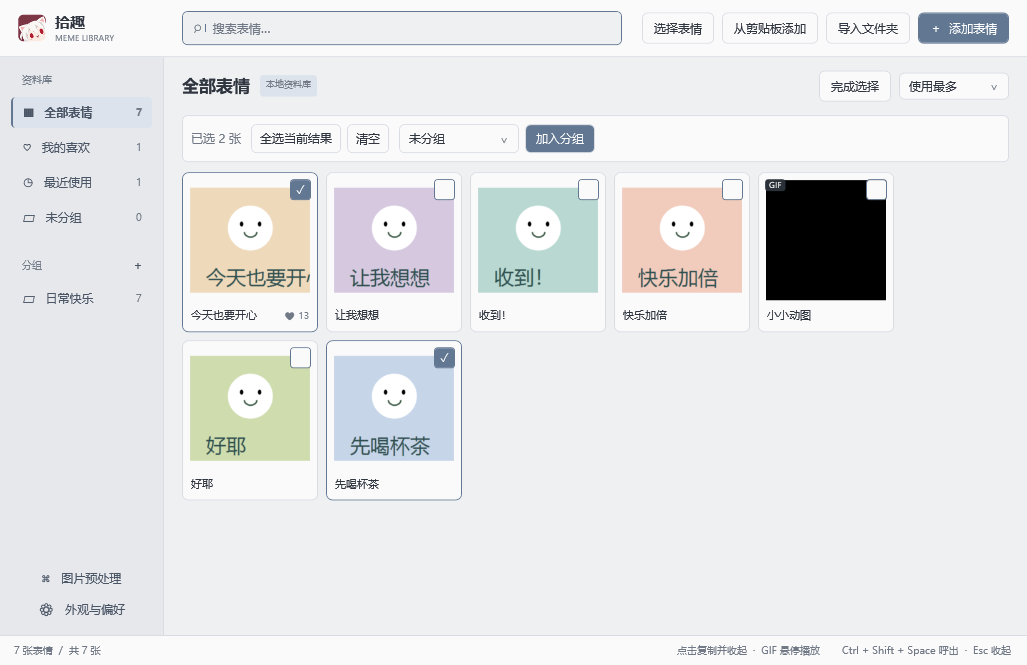
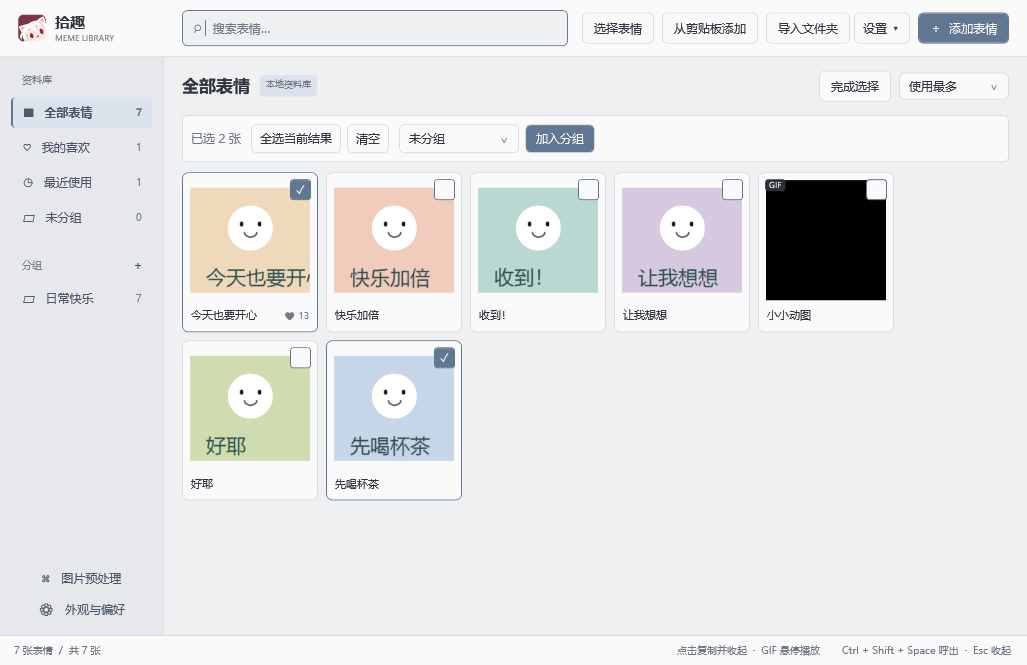
fix: search text clipping and expose folder import settings

Changed region(s): [[0.592, 0.2707, 0.7478, 0.4812], [0.3116, 0.2707, 0.4674, 0.4812], [0.5609, 0.0301, 0.8724, 0.0602]]

diff --git a/MainWindow.xaml b/MainWindow.xaml
@@ -3,7 +3,7 @@
   <SolidColorBrush x:Key="Canvas" Color="#EFF0F2"/><SolidColorBrush x:Key="Surface" Color="#FAFAFB"/><SolidColorBrush x:Key="Ink" Color="#303640"/><SolidColorBrush x:Key="Muted" Color="#707985"/><SolidColorBrush x:Key="Line" Color="#D9DDE3"/><SolidColorBrush x:Key="Accent" Color="#627792"/><SolidColorBrush x:Key="Tint" Color="#DCE3EC"/><SolidColorBrush x:Key="Side" Color="#E6E8EC"/><SolidColorBrush x:Key="SideInk" Color="#4A5565"/><SolidColorBrush x:Key="SideMuted" Color="#737D8A"/>
   <Style TargetType="TextBlock"><Setter Property="Foreground" Value="{DynamicResource Ink}"/></Style>
   <Style TargetType="Button"><Setter Property="Foreground" Value="{DynamicResource Ink}"/><Setter Property="Background" Value="{DynamicResource Surface}"/><Setter Property="BorderBrush" Value="{DynamicResource Line}"/><Setter Property="BorderThickness" Value="1"/><Setter Property="Padding" Value="11,7"/><Setter Property="Cursor" Value="Hand"/><Setter Property="Template"><Setter.Value><ControlTemplate TargetType="Button"><Border x:Name="B" CornerRadius="5" Background="{TemplateBinding Background}" BorderBrush="{TemplateBinding BorderBrush}" BorderThickness="{TemplateBinding BorderThickness}" Padding="{TemplateBinding Padding}"><ContentPresenter HorizontalAlignment="Center" VerticalAlignment="Center"/></Border><ControlTemplate.Triggers><Trigger Property="IsMouseOver" Value="True"><Setter TargetName="B" Property="Opacity" Value="0.78"/></Trigger><Trigger Property="IsKeyboardFocused" Value="True"><Setter TargetName="B" Property="BorderBrush" Value="{DynamicResource Accent}"/></Trigger><Trigger Property="IsEnabled" Value="False"><Setter TargetName="B" Property="Opacity" Value="0.4"/></Trigger></ControlTemplate.Triggers></ControlTemplate></Setter.Value></Setter></Style>
-  <Style TargetType="TextBox"><Setter Property="Background" Value="{DynamicResource Canvas}"/><Setter Property="Foreground" Value="{DynamicResource Ink}"/><Setter Property="CaretBrush" Value="{DynamicResource Accent}"/><Setter Property="BorderBrush" Value="{DynamicResource Line}"/><Setter Property="BorderThickness" Value="1"/><Setter Property="Padding" Value="10,6"/><Setter Property="VerticalContentAlignment" Value="Center"/><Setter Property="Template"><Setter.Value><ControlTemplate TargetType="TextBox"><Border x:Name="B" Background="{TemplateBinding Background}" BorderBrush="{TemplateBinding BorderBrush}" BorderThickness="{TemplateBinding BorderThickness}" CornerRadius="5"><ScrollViewer x:Name="PART_ContentHost" Margin="{TemplateBinding Padding}"/></Border><ControlTemplate.Triggers><Trigger Property="IsKeyboardFocusWithin" Value="True"><Setter TargetName="B" Property="BorderBrush" Value="{DynamicResource Accent}"/></Trigger></ControlTemplate.Triggers></ControlTemplate></Setter.Value></Setter></Style>
+  <Style TargetType="TextBox"><Setter Property="Background" Value="{DynamicResource Canvas}"/><Setter Property="Foreground" Value="{DynamicResource Ink}"/><Setter Property="CaretBrush" Value="{DynamicResource Accent}"/><Setter Property="BorderBrush" Value="{DynamicResource Line}"/><Setter Property="BorderThickness" Value="1"/><Setter Property="Padding" Value="10,4"/><Setter Property="MinHeight" Value="36"/><Setter Property="VerticalContentAlignment" Value="Center"/><Setter Property="Template"><Setter.Value><ControlTemplate TargetType="TextBox"><Border x:Name="B" Background="{TemplateBinding Background}" BorderBrush="{TemplateBinding BorderBrush}" BorderThickness="{TemplateBinding BorderThickness}" CornerRadius="5" Padding="{TemplateBinding Padding}"><ScrollViewer x:Name="PART_ContentHost" Focusable="False" HorizontalScrollBarVisibility="Hidden" VerticalScrollBarVisibility="Hidden"/></Border><ControlTemplate.Triggers><Trigger Property="IsKeyboardFocusWithin" Value="True"><Setter TargetName="B" Property="BorderBrush" Value="{DynamicResource Accent}"/></Trigger></ControlTemplate.Triggers></ControlTemplate></Setter.Value></Setter></Style>
   <Style TargetType="ComboBox"><Setter Property="Foreground" Value="{DynamicResource Ink}"/><Setter Property="Background" Value="{DynamicResource Surface}"/><Setter Property="Padding" Value="10,6"/><Setter Property="MinWidth" Value="110"/><Setter Property="Template"><Setter.Value><ControlTemplate TargetType="ComboBox"><Grid><ToggleButton Focusable="False" IsChecked="{Binding IsDropDownOpen, RelativeSource={RelativeSource TemplatedParent}, Mode=TwoWay}" ClickMode="Press"><ToggleButton.Template><ControlTemplate TargetType="ToggleButton"><Border Background="{DynamicResource Surface}" BorderBrush="{DynamicResource Line}" BorderThickness="1" CornerRadius="5"><TextBlock Text="⌄" Foreground="{DynamicResource Muted}" HorizontalAlignment="Right" VerticalAlignment="Center" Margin="0,0,10,3"/></Border></ControlTemplate></ToggleButton.Template></ToggleButton><ContentPresenter IsHitTestVisible="False" Content="{TemplateBinding SelectionBoxItem}" ContentTemplate="{TemplateBinding SelectionBoxItemTemplate}" Margin="10,6,27,6" VerticalAlignment="Center"/><Popup x:Name="PART_Popup" IsOpen="{TemplateBinding IsDropDownOpen}" Placement="Bottom" AllowsTransparency="True" Focusable="False" PopupAnimation="Fade"><Border Background="{DynamicResource Surface}" BorderBrush="{DynamicResource Line}" BorderThickness="1" CornerRadius="5" MinWidth="{Binding ActualWidth, RelativeSource={RelativeSource TemplatedParent}}" Padding="3"><ScrollViewer MaxHeight="280"><ItemsPresenter KeyboardNavigation.DirectionalNavigation="Contained"/></ScrollViewer></Border></Popup></Grid></ControlTemplate></Setter.Value></Setter></Style>
   <Style TargetType="ComboBoxItem"><Setter Property="Foreground" Value="{DynamicResource Ink}"/><Setter Property="Padding" Value="8,6"/><Setter Property="Template"><Setter.Value><ControlTemplate TargetType="ComboBoxItem"><Border x:Name="B" Background="Transparent" Padding="{TemplateBinding Padding}" CornerRadius="3"><ContentPresenter/></Border><ControlTemplate.Triggers><Trigger Property="IsHighlighted" Value="True"><Setter TargetName="B" Property="Background" Value="{DynamicResource Tint}"/></Trigger><Trigger Property="IsSelected" Value="True"><Setter TargetName="B" Property="Background" Value="{DynamicResource Tint}"/></Trigger></ControlTemplate.Triggers></ControlTemplate></Setter.Value></Setter></Style>
   <Style x:Key="Nav" TargetType="ListBoxItem"><Setter Property="Foreground" Value="{DynamicResource SideInk}"/><Setter Property="Padding" Value="10,8"/><Setter Property="Margin" Value="0,2"/><Setter Property="HorizontalContentAlignment" Value="Stretch"/><Setter Property="Template"><Setter.Value><ControlTemplate TargetType="ListBoxItem"><Border x:Name="B" Background="Transparent" CornerRadius="4" Padding="{TemplateBinding Padding}" BorderThickness="2,0,0,0" BorderBrush="Transparent"><ContentPresenter/></Border><ControlTemplate.Triggers><Trigger Property="IsMouseOver" Value="True"><Setter TargetName="B" Property="Background" Value="{DynamicResource Tint}"/></Trigger><Trigger Property="IsSelected" Value="True"><Setter TargetName="B" Property="Background" Value="{DynamicResource Tint}"/><Setter TargetName="B" Property="BorderBrush" Value="{DynamicResource Accent}"/><Setter Property="FontWeight" Value="SemiBold"/></Trigger></ControlTemplate.Triggers></ControlTemplate></Setter.Value></Setter></Style>
@@ -12,8 +12,8 @@
   <Grid.RowDefinitions><RowDefinition Height="57"/><RowDefinition Height="*"/><RowDefinition Height="30"/></Grid.RowDefinitions>
   <Border Background="{DynamicResource Surface}" BorderBrush="{DynamicResource Line}" BorderThickness="0,0,0,1"><Grid Margin="18,0,18,0"><Grid.ColumnDefinitions><ColumnDefinition Width="164"/><ColumnDefinition Width="*"/><ColumnDefinition Width="Auto"/></Grid.ColumnDefinitions>
    <StackPanel Orientation="Horizontal" VerticalAlignment="Center"><Image x:Name="BrandIcon" Width="28" Height="28" Margin="0,0,9,0"/><StackPanel><TextBlock Text="拾趣" FontSize="15" FontWeight="SemiBold"/><TextBlock Text="MEME LIBRARY" Foreground="{DynamicResource Muted}" FontSize="8" Margin="0,1,0,0"/></StackPanel></StackPanel>
-   <Grid Grid.Column="1" Margin="0,11,20,11"><TextBox x:Name="Search" ToolTip="搜索表情名称"/><TextBlock x:Name="SearchHint" Text="⌕   搜索表情…" Foreground="{DynamicResource Muted}" IsHitTestVisible="False" VerticalAlignment="Center" Margin="11,0,0,0"/></Grid>
-   <StackPanel Grid.Column="2" Orientation="Horizontal" VerticalAlignment="Center"><Button x:Name="OpenPicker" Content="选择表情" Margin="0,0,8,0"/><Button x:Name="ImportClipboard" Content="从剪贴板添加" ToolTip="导入剪贴板中的图片或图片文件到当前分组" Margin="0,0,8,0"/><Button x:Name="ImportFolder" Content="导入文件夹" Margin="0,0,8,0"/><Button x:Name="ImportFiles" Content="＋  添加表情" Background="{DynamicResource Accent}" BorderBrush="{DynamicResource Accent}" Foreground="White"/></StackPanel>
+   <Grid Grid.Column="1" Margin="0,6,14,6" VerticalAlignment="Center"><TextBox x:Name="Search" ToolTip="搜索表情名称"/><TextBlock x:Name="SearchHint" Text="⌕   搜索表情…" Foreground="{DynamicResource Muted}" IsHitTestVisible="False" VerticalAlignment="Center" Margin="11,0,0,0"/></Grid>
+   <StackPanel Grid.Column="2" Orientation="Horizontal" VerticalAlignment="Center"><Button x:Name="OpenPicker" Content="选择表情" Margin="0,0,8,0"/><Button x:Name="ImportClipboard" Content="从剪贴板添加" ToolTip="导入剪贴板中的图片或图片文件到当前分组" Margin="0,0,8,0"/><Button x:Name="ImportFolder" Content="导入文件夹" Margin="0,0,4,0"/><Button x:Name="FolderImportSettings" Content="设置 ▾" ToolTip="文件夹导入设置" Padding="8,7" Margin="0,0,8,0"/><Button x:Name="ImportFiles" Content="＋  添加表情" Background="{DynamicResource Accent}" BorderBrush="{DynamicResource Accent}" Foreground="White"/></StackPanel>
   </Grid></Border>
   <Grid Grid.Row="1"><Grid.ColumnDefinitions><ColumnDefinition Width="164"/><ColumnDefinition Width="*"/></Grid.ColumnDefinitions>
    <Border Background="{DynamicResource Side}" BorderBrush="{DynamicResource Line}" BorderThickness="0,0,1,0"><Grid Margin="10,16,10,10"><Grid.RowDefinitions><RowDefinition Height="Auto"/><RowDefinition Height="*"/><RowDefinition Height="Auto"/></Grid.RowDefinitions>

diff --git a/App.cs b/App.cs
@@ -34,7 +34,7 @@ namespace MemeManager {
    groups.SelectionChanged+=(s,e)=>{if(rebuilding||groups.SelectedItem==null)return;filter=(string)((ListBoxItem)groups.SelectedItem).Tag;rebuilding=true;navigation.SelectedIndex=-1;rebuilding=false;Refresh();};
    searchTimer=new DispatcherTimer {Interval=TimeSpan.FromMilliseconds(180)};searchTimer.Tick+=(s,e)=>{searchTimer.Stop();Refresh();};
    search.TextChanged+=(s,e)=>{Find<TextBlock>("SearchHint").Visibility=search.Text.Length==0?Visibility.Visible:Visibility.Collapsed;searchTimer.Stop();searchTimer.Start();};sort.SelectionChanged+=(s,e)=>Refresh();
-   Click("ImportClipboard",(s,e)=>AddFromClipboard());Click("ImportFiles",(s,e)=>ChooseFiles());Click("EmptyImport",(s,e)=>ChooseFiles());Click("ImportFolder",(s,e)=>ChooseFolder());Click("AddGroup",(s,e)=>NewGroup());Click("SettingsButton",(s,e)=>Settings());Click("OpenPicker",(s,e)=>ShowPicker());Click("PreprocessButton",(s,e)=>ShowPreprocessor());Click("BatchToggle",(s,e)=>ToggleBatchMode());Click("BatchSelectAll",(s,e)=>{foreach(var item in visible)batchSelected.Add(item.Id);UpdateBatchUI();RedrawBatchCards();});Click("BatchClear",(s,e)=>{batchSelected.Clear();UpdateBatchUI();RedrawBatchCards();});Click("BatchMove",(s,e)=>{try{var target=Find<ComboBox>("BatchGroup").SelectedItem as PickerGroup;if(target!=null)MoveBatch(target.Id);}catch(Exception ex){Report(ex);}});UpdateBatchUI();
+   Click("ImportClipboard",(s,e)=>AddFromClipboard());Click("ImportFiles",(s,e)=>ChooseFiles());Click("EmptyImport",(s,e)=>ChooseFiles());Click("ImportFolder",(s,e)=>ChooseFolder());Click("AddGroup",(s,e)=>NewGroup());Click("SettingsButton",(s,e)=>Settings());Click("OpenPicker",(s,e)=>ShowPicker());Click("PreprocessButton",(s,e)=>ShowPreprocessor());Click("BatchToggle",(s,e)=>ToggleBatchMode());Click("BatchSelectAll",(s,e)=>{foreach(var item in visible)batchSelected.Add(item.Id);UpdateBatchUI();RedrawBatchCards();});Click("BatchClear",(s,e)=>{batchSelected.Clear();UpdateBatchUI();RedrawBatchCards();});Click("BatchMove",(s,e)=>{try{var target=Find<ComboBox>("BatchGroup").SelectedItem as PickerGroup;if(target!=null)MoveBatch(target.Id);}catch(Exception ex){Report(ex);}});UpdateBatchUI();SetupFolderImportSettings();
    window.Drop+=(s,e)=>{if(e.Data.GetDataPresent(DataFormats.FileDrop))BeginImport((string[])e.Data.GetData(DataFormats.FileDrop));};
    window.PreviewDragOver+=(s,e)=>{e.Effects=e.Data.GetDataPresent(DataFormats.FileDrop)?DragDropEffects.Copy:DragDropEffects.None;e.Handled=true;};
    window.PreviewKeyDown+=(s,e)=>{if(e.Key==Key.Escape){window.Hide();e.Handled=true;}};
@@ -157,18 +157,16 @@ namespace MemeManager {
    }catch(Exception ex){MessageBox.Show(window,ex.Message,"无法从剪贴板添加",MessageBoxButton.OK,MessageBoxImage.Warning);}
    finally{readingClipboard=false;Find<Button>("ImportClipboard").IsEnabled=!importing;}
   }
-  Window CreateFolderImportDialog(string[] paths){
-   var dialog=Dialog("导入文件夹",490,320);NameScope.SetNameScope(dialog,new NameScope());var panel=new StackPanel{Margin=new Thickness(24)};
-   panel.Children.Add(new TextBlock{Text="文件夹导入方式",FontSize=18,FontWeight=FontWeights.SemiBold,Foreground=BrushFor("Ink"),Margin=new Thickness(0,0,0,12)});
-   panel.Children.Add(new TextBlock{Text=paths.Length==1?paths[0]:"已选择 "+paths.Length+" 个文件或文件夹",Foreground=BrushFor("Muted"),TextTrimming=TextTrimming.CharacterEllipsis,Margin=new Thickness(0,0,0,20)});
-   var grouping=new CheckBox{Name="FolderGrouping",Content="按子文件夹名称自动分组",IsChecked=false,Foreground=BrushFor("Ink")};dialog.RegisterName(grouping.Name,grouping);panel.Children.Add(grouping);
-   panel.Children.Add(new TextBlock{Text="开启：使用图片直接所在的子文件夹名称，同名分组会复用。根目录图片仍导入当前分组。\n关闭：所有图片统一导入当前分组。\n重复图片会跳过，空目录不会创建分组。",TextWrapping=TextWrapping.Wrap,Foreground=BrushFor("Muted"),FontSize=11,Margin=new Thickness(0,12,0,0)});
-   var buttons=new StackPanel{Orientation=Orientation.Horizontal,HorizontalAlignment=HorizontalAlignment.Right,Margin=new Thickness(0,22,0,0)};var cancel=new Button{Content="取消",IsCancel=true,Margin=new Thickness(0,0,8,0)};var start=new Button{Content="开始导入",IsDefault=true,Background=BrushFor("Accent"),Foreground=Brushes.White};start.Click+=(s,e)=>dialog.DialogResult=true;buttons.Children.Add(cancel);buttons.Children.Add(start);panel.Children.Add(buttons);dialog.Content=panel;return dialog;
+  void SetupFolderImportSettings(){
+   var button=Find<Button>("FolderImportSettings");var menu=new ContextMenu{Background=BrushFor("Surface"),Foreground=BrushFor("Ink"),BorderBrush=BrushFor("Line")};
+   var grouping=new MenuItem{Header="按子文件夹名称自动分组",IsCheckable=true,IsChecked=library.Data.Settings.FolderAutoGroup};
+   Action update=()=>{button.ToolTip=grouping.IsChecked?"文件夹导入设置：自动分组已开启":"文件夹导入设置：自动分组已关闭";button.SetResourceReference(Button.BackgroundProperty,grouping.IsChecked?"Tint":"Surface");};
+   grouping.Click+=(s,e)=>{bool before=library.Data.Settings.FolderAutoGroup;try{library.Data.Settings.FolderAutoGroup=grouping.IsChecked;library.Save();}catch(Exception ex){library.Data.Settings.FolderAutoGroup=before;grouping.IsChecked=before;Report(ex);}update();};menu.Items.Add(grouping);button.ContextMenu=menu;
+   button.Click+=(s,e)=>{menu.PlacementTarget=button;menu.Placement=System.Windows.Controls.Primitives.PlacementMode.Bottom;menu.IsOpen=true;};update();
   }
   async void BeginImport(string[] paths){
-   if(importing){status.Text="当前导入尚未完成，请稍候。";return;}bool groupByFolder=false;
-   if(paths.Any(Directory.Exists)){var options=CreateFolderImportDialog(paths);if(options.ShowDialog()!=true)return;groupByFolder=((CheckBox)options.FindName("FolderGrouping")).IsChecked==true;}
-   await ImportPathsAsync(paths,groupByFolder);
+   if(importing){status.Text="当前导入尚未完成，请稍候。";return;}
+   await ImportPathsAsync(paths,library.Data.Settings.FolderAutoGroup&&paths.Any(Directory.Exists));
   }
   async Task ImportPathsAsync(string[] paths,bool groupByFolder=false){if(importing){MessageBox.Show(window,"当前导入尚未完成，请稍候。","正在导入");return;}importing=true;importCancellation=new CancellationTokenSource();Find<Button>("ImportClipboard").IsEnabled=false;Find<Button>("ImportFiles").IsEnabled=false;Find<Button>("ImportFolder").IsEnabled=false;
    var progress=Dialog("收集快乐",390,210);var panel=new StackPanel{Margin=new Thickness(25)};var message=new TextBlock{Text="正在导入图片，包含子文件夹…",Foreground=BrushFor("Ink"),Margin=new Thickness(0,0,0,20)};panel.Children.Add(message);panel.Children.Add(new ProgressBar{IsIndeterminate=true,Height=5});var cancel=new Button{Content="取消导入",Margin=new Thickness(0,20,0,0)};cancel.Click+=(s,e)=>{importCancellation.Cancel();cancel.IsEnabled=false;message.Text="正在完成当前文件…";};panel.Children.Add(cancel);progress.Content=panel;progress.Closing+=(s,e)=>{if(importing){e.Cancel=true;importCancellation.Cancel();}};progress.Show();

diff --git a/tests/SmokeTests.cs b/tests/SmokeTests.cs
@@ -46,7 +46,8 @@ class SmokeTests {
   var flat=folderLibrary.Import(new[]{folderInput},"flat-target",new HashSet<string>(),CancellationToken.None,n=>{},false);Check(flat.Groups.Count==0&&flat.Items.All(x=>x.GroupId=="flat-target"),"disabled folder grouping imports all descendants into current group");var cancelledGrouping=new CancellationTokenSource();cancelledGrouping.Cancel();var stopped=folderLibrary.Import(new[]{folderInput},null,new HashSet<string>(),cancelledGrouping.Token,n=>{},true);Check(stopped.Cancelled&&stopped.Items.Count==0&&stopped.Groups.Count==0,"cancelled folder import creates no empty groups");
   folderLibrary.Data.Groups.AddRange(grouped.Groups);folderLibrary.Data.Memes.AddRange(grouped.Items);folderLibrary.Save();Check(new Library(folderLibrary.Root).Data.Groups.Count==2&&File.ReadAllBytes(folderLibrary.FileFor(grouped.Items.Single(x=>x.Extension==".gif"))).SequenceEqual(gif),"auto-created groups persist and original animation bytes survive");
   var app=new Application{ShutdownMode=ShutdownMode.OnExplicitShutdown};var manager=new ManagerWindow();manager.Initialize(new[]{"--background","--smoke-test","--data-dir",library.Root});var window=Field<Window>(manager,"window");var cards=Field<WrapPanel>(manager,"cards");Check(cards.Children.Count==0,"background startup defers image decoding");
-  var folderOptions=(Window)Invoke(manager,"CreateFolderImportDialog",new object[]{new[]{folderInput}});folderOptions.Show();Check(((CheckBox)folderOptions.FindName("FolderGrouping")).IsChecked==false,"folder import offers optional grouping disabled by default");Render(folderOptions,Path.Combine(root,"preview-folder-options.png"));folderOptions.Close();
+  var folderSettings=(Button)window.FindName("FolderImportSettings");var folderToggle=(MenuItem)folderSettings.ContextMenu.Items[0];Check(folderSettings!=null&&!folderToggle.IsChecked,"folder grouping setting is directly beside import and defaults off");
+  folderToggle.IsChecked=true;folderToggle.RaiseEvent(new RoutedEventArgs(MenuItem.ClickEvent));Check(new Library(library.Root).Data.Settings.FolderAutoGroup,"folder grouping switch persists when enabled");folderToggle.IsChecked=false;folderToggle.RaiseEvent(new RoutedEventArgs(MenuItem.ClickEvent));Check(!new Library(library.Root).Data.Settings.FolderAutoGroup,"folder grouping switch can be disabled and persisted");
   string uiFolder=Path.Combine(root,"ui-import","自动分类");Directory.CreateDirectory(uiFolder);using(var image=new D.Bitmap(2,3)){image.SetPixel(0,0,D.Color.Cyan);image.Save(Path.Combine(uiFolder,"新图.png"),D.Imaging.ImageFormat.Png);}System.Threading.Tasks.Task importTask=null;window.Dispatcher.BeginInvoke(new Action(()=>importTask=(System.Threading.Tasks.Task)Invoke(manager,"ImportPathsAsync",new object[]{new[]{Path.GetDirectoryName(uiFolder)},true})));PumpUntil(()=>importTask!=null&&importTask.IsCompleted);importTask.GetAwaiter().GetResult();var uiLibrary=Field<Library>(manager,"library");var uiGroup=uiLibrary.Data.Groups.Single(x=>x.Name=="自动分类");var uiMeme=uiLibrary.Data.Memes.Single(x=>x.Name=="新图");Check(uiMeme.GroupId==uiGroup.Id&&new Library(uiLibrary.Root).Data.Memes.Any(x=>x.Id==uiMeme.Id&&x.GroupId==uiGroup.Id),"manager commits imported images and generated groups together");uiLibrary.Data.Memes.Remove(uiMeme);uiLibrary.Data.Groups.Remove(uiGroup);uiLibrary.Save();Invoke(manager,"RefreshNavigation");Invoke(manager,"Refresh");
   Check(Field<Window>(manager,"picker")==null,"picker is created lazily");Invoke(manager,"Settings");var settings=Field<Window>(manager,"settingsWindow");Check(settings.IsVisible&&!window.IsVisible&&settings.Owner==null,"settings opens independently without showing manager");Invoke(manager,"Settings");Check(object.ReferenceEquals(settings,Field<Window>(manager,"settingsWindow")),"settings window reuses its existing instance");
   object[] hotkeyArgs={Field<IntPtr>(manager,"handle"),0x312,new IntPtr(1),IntPtr.Zero,false};manager.GetType().GetMethod("MessageHook",BindingFlags.Instance|BindingFlags.NonPublic).Invoke(manager,hotkeyArgs);
@@ -64,6 +65,8 @@ class SmokeTests {
   Invoke(manager,"ToggleBatchMode");foreach(var id in batchIds)Invoke(manager,"ToggleBatchItem",id);Invoke(manager,"MoveBatch",new object[]{null});Check(batchLibrary.Data.Memes.Count(x=>x.GroupId==null)==2,"batch images can return to ungrouped");Invoke(manager,"ToggleBatchMode");foreach(var id in batchIds)Invoke(manager,"ToggleBatchItem",id);Invoke(manager,"MoveBatch","test-group");batchLibrary.Data.Groups.RemoveAll(x=>x.Id=="batch-target");batchLibrary.Save();Invoke(manager,"RefreshNavigation");
   var search=Field<TextBox>(manager,"search");search.Text="今天";Invoke(manager,"Refresh");Check(cards.Children.Count==1,"name search filters cards");search.Clear();Invoke(manager,"Refresh");
   Check(Field<List<Meme>>(manager,"visible")[0].Uses==priorUses+1,"default sort prioritizes usage frequency");
+  double normalWidth=window.Width;window.Width=800;foreach(double fontSize in new[]{12.0,18.0}){search.FontSize=fontSize;search.Text="测试字符gyp";window.UpdateLayout();var host=(ScrollViewer)search.Template.FindName("PART_ContentHost",search);var glyph=search.GetRectFromCharacterIndex(0);Check(host.ActualHeight>=glyph.Height&&!glyph.IsEmpty&&glyph.Top>=0&&glyph.Bottom<=search.ActualHeight,"search glyph height fits at narrow width and font size "+fontSize);}
+  search.FontSize=12;search.Text=string.Concat(Enumerable.Repeat("中文搜索gyp",12));search.Focus();search.CaretIndex=search.Text.Length;search.ScrollToHorizontalOffset(double.MaxValue);window.UpdateLayout();var lastGlyph=search.GetRectFromCharacterIndex(search.Text.Length-1);Check(!lastGlyph.IsEmpty&&lastGlyph.Right<=search.ActualWidth&&lastGlyph.Left>=0,"long search text scrolls to show caret and final character");Render(window,Path.Combine(root,"preview-search-narrow.png"));window.Width=normalWidth;search.Text="搜索测试：让我想想gyp";Render(window,Path.Combine(root,"preview-search-text.png"));search.Clear();Invoke(manager,"Refresh");
   var playerImage=new Image{Source=BitmapFrame.Create(new Uri(library.FileFor(importedGif)))};var player=new GifPlayer(playerImage,library.FileFor(importedGif));player.Start();player.Stop();Check(playerImage.Source!=null,"GIF player starts and restores thumbnail");
   Render(window,Path.Combine(root,"preview.png"));var preferences=Field<Library>(manager,"library").Data.Settings;preferences.Palette="深夜墨";Invoke(manager,"ApplyTheme");Invoke(manager,"Refresh");Render(window,Path.Combine(root,"preview-dark.png"));Check(((SolidColorBrush)window.Resources["Canvas"]).Color.ToString()=="#FF17211E","dark palette applied");
   string wallpaperInput=Path.Combine(root,"背景测试.png");using(var bitmap=new D.Bitmap(3000,1800))using(var g=D.Graphics.FromImage(bitmap)){g.Clear(D.Color.SlateBlue);g.FillEllipse(D.Brushes.LightPink,900,0,1800,1800);bitmap.Save(wallpaperInput,D.Imaging.ImageFormat.Png);}

diff --git a/Library.cs b/Library.cs
@@ -9,7 +9,7 @@ using System.Windows.Media.Imaging;
 namespace MemeManager {
  public class Meme { public string Id {get;set;} public string Name {get;set;} public string Extension {get;set;} public string GroupId {get;set;} public bool Favorite {get;set;} public int Uses {get;set;} public DateTime Added {get;set;} public DateTime LastUsed {get;set;} }
  public class Group { public string Id {get;set;} public string Name {get;set;} }
- public class Preferences { public string Palette {get;set;} public string Accent {get;set;} public string CanvasColor {get;set;} public string SurfaceColor {get;set;} public string InkColor {get;set;} public string SideColor {get;set;} public string BackgroundImage {get;set;} public int BackgroundOpacity {get;set;} public int CardSize {get;set;} public int Radius {get;set;} public int HotKey {get;set;} public uint Modifiers {get;set;} public bool AutoStart {get;set;} public Preferences(){BackgroundOpacity=35;Palette="港湾雾蓝";Accent="#627792";CardSize=136;Radius=6;HotKey=32;Modifiers=6;} }
+ public class Preferences { public string Palette {get;set;} public string Accent {get;set;} public string CanvasColor {get;set;} public string SurfaceColor {get;set;} public string InkColor {get;set;} public string SideColor {get;set;} public string BackgroundImage {get;set;} public int BackgroundOpacity {get;set;} public int CardSize {get;set;} public int Radius {get;set;} public int HotKey {get;set;} public uint Modifiers {get;set;} public bool AutoStart {get;set;} public bool FolderAutoGroup {get;set;} public Preferences(){BackgroundOpacity=35;Palette="港湾雾蓝";Accent="#627792";CardSize=136;Radius=6;HotKey=32;Modifiers=6;} }
  public class Database { public List<Meme> Memes {get;set;} public List<Group> Groups {get;set;} public Preferences Settings {get;set;} public Database(){Memes=new List<Meme>();Groups=new List<Group>();Settings=new Preferences();} }
  public class ImportResult { public List<Meme> Items=new List<Meme>(); public List<Group> Groups=new List<Group>(); public int Duplicates; public int Errors; public bool Cancelled; }
  public class Library {

diff --git a/docs/usage.md b/docs/usage.md
@@ -18,7 +18,7 @@ Windows 原生表情收藏夹。WPF + 系统自带 .NET Framework 4.8，无 WebV
 选择器首次使用时才创建，使用与管理窗口共享的资料库、主题与缩略图缓存；卡片按视口创建，隐藏后释放图片引用。
 
 - 添加表情：选择多张图片，拖入图片 / 文件夹，或批量导入文件夹（包括子文件夹，跳过目录链接）。按 SHA-256 去重，保留原始 GIF。
-- 文件夹自动分组：通过「导入文件夹」选择目录，或拖入文件夹后，会出现导入选项。可勾选「按子文件夹名称自动分组」（默认关闭）；关闭时所有图片放入当前分组。开启时，图片使用直接所在子文件夹的名称创建分组，同名分组复用，多层目录也按直接父文件夹名归组；所选根目录里的图片仍放入当前分组。空目录、只有损坏文件或重复图片的目录不会创建分组。重复内容仍跳过，不会重新移动已收藏的图片；取消后保留已成功导入的图片及对应分组。
+- 文件夹自动分组：在管理窗口顶部「导入文件夹」旁点击「设置 ▾」，可勾选「按子文件夹名称自动分组」（默认关闭）。设置会保存并在重启后沿用，适用于选择目录和拖入文件夹，不再额外弹出导入选项窗口；关闭时所有图片放入当前分组。开启时，图片使用直接所在子文件夹的名称创建分组，同名分组复用，多层目录也按直接父文件夹名归组；所选根目录里的图片仍放入当前分组。空目录、只有损坏文件或重复图片的目录不会创建分组。重复内容仍跳过，不会重新移动已收藏的图片；取消后保留已成功导入的图片及对应分组。
 - 从剪贴板添加：复制图片文件、截图或图片后，点击管理窗口顶部「从剪贴板添加」。多张图片文件可一次导入；先选中左侧分组即可直接导入该组。优先使用原文件，其次读取 GIF / PNG 数据，最后将位图保存为 PNG。原文件或 GIF 数据可保留动画；剪贴板只有位图时只能得到静态图。自动去重，不修改剪贴板内容，不读取纯文本网址或下载网络图片。剪贴板图片的临时副本放在非 C 盘资料库的 `temp` 中，导入完成、取消或失败后清理；只在点击按钮时读取，没有后台监听。内嵌图片限制 50 MB，位图限制 1 亿像素。
 - 分组：侧栏 `＋` 新建，右键分组重命名或删除；右键表情移动分组、重命名、喜欢或删除。删除分组保留表情。
 - 批量分组：点击管理页「批量分组」，逐张勾选表情，或点击「全选当前结果」，选择目标分组后点「加入分组」。搜索和滚动不会丢失已勾选的表情；可清空选择，或点「完成选择」退出。选择模式下点击图片只勾选，不复制。先选中左侧分组，再多选添加图片、拖入图片或导入文件夹，可直接批量导入该分组。
